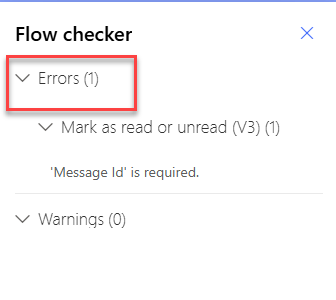
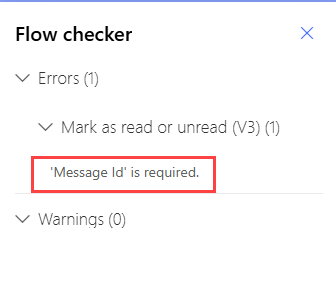
Feedback

Changed region(s): [[0.0, 0.18, 0.4167, 0.39], [0.0893, 0.51, 0.6548, 0.66]]

diff --git a/articles/error-checker.md b/articles/error-checker.md
@@ -12,7 +12,7 @@ ms.subservice: cloud-flow
 ms.topic: article
 ms.tgt_pltfrm: na
 ms.workload: na
-ms.date: 03/04/2015
+ms.date: 03/05/2025
 ms.author: angieandrews
 ms.reviewer: angieandrews
 search.audienceType: 
@@ -27,9 +27,9 @@ For each issue the checker identifies, the checker points to specific occurrence
 
 The checker is always active, appearing in the command bar in the designer. 
 
-## View errors or warnings in the checker
+## Resolve errors and warnings
 
-While designing your flow, you can select the **Flow Checker** button to open the checker to view errors and warnings.
+While designing your flow, you can select **Flow Checker** to open the checker to view errors and warnings.
 
 The checker also opens automatically when you save the flow if there are errors or warnings. Once the checker opens, it shows all errors and warnings in your flow. In each section, the checker calls out the actions where the error or warning occurs. 
 
@@ -37,29 +37,39 @@ The checker also opens automatically when you save the flow if there are errors 
 
 # [Modern designer](#tab/modern-designer)
 
-1. To run the checker, select the Flow Checker icon. The checker shows you any errors or warnings in your flow.
+The Flow Checker shows you errors or warnings in your flow. It also provides help to fix the errors and warnings in red on both the action panel and the flow card.
+
+1. To run the checker, select **Flow Checker**. 
     
     :::image type="content" source="./media/checker/checker-in-new-designer.png" alt-text="Screenshot of Flow Checker in new designer.":::
     
-1. To see more details about the issue, select an error or warning the Flow Checker window.
+    The **Flow Checker** panel opens.
+1. To see more details about the issue, select an error or warning in the Flow Checker panel.
     :::image type="content" source="./media/checker/error-in-new-designer.png" alt-text="Screenshot of the Flow Checker error tab in new designer.":::
+
+1. In the Flow Checker, select the error or warning and correct your error with the help of the red text from the checker. 
+    
+   Alternatively, select the red error in the flow card to open the same window where you correct the error.
+
+1. Run the Flow Checker again. If there're no errors or warnings, you get a message in the Flow Checker panel that says "No errors found". We recommend that you test your flow to ensure it works as expected.
 
 # [Classic designer](#tab/classic-designer)
 
-1. To run the checker, select the Flow Checker icon. The Flow Checker icon shows a red dot when it finds one or more errors, potential errors, or warnings in your flow.
+The Flow Checker shows you errors or warnings in your flow. It also provides help to fix the errors and warnings in red on both the action panel and the flow card.
+
+1. To run the checker, select **Flow Checker**. It shows a red dot when it finds one or more errors, potential errors, or warnings in your flow.
     
     :::image type="content" source="./media/checker/checker-in-classic-designer.png" alt-text="Screenshot of Flow Checker in classic designer.":::
     
-1. To see more details about the issue, select an error or warning the Flow Checker window.
+1. To see more details about the issue, expand an error or warning in the Flow Checker panel. 
+1. In the Flow Checker panel, select the error or warning. For example, in the following screenshot the error is *'Message Id' is required*.
     :::image type="content" source="./media/checker/error-in-classic-designer.png" alt-text="Screenshot of the Flow Checker error tab in classic designer.":::
 
+1. Correct your error.
+
+1. Run the Flow Checker again. If there're no errors or warnings, we recommend that you test your flow to ensure it works as expected.
+
 ---
-
-## Learn to fix errors and warnings
-
-Expand each section to learn more about how to fix the errors or warnings.
-
-![Checker details.](media/checker/checker-detail.png "Checker details")
 
 ## More information
 
